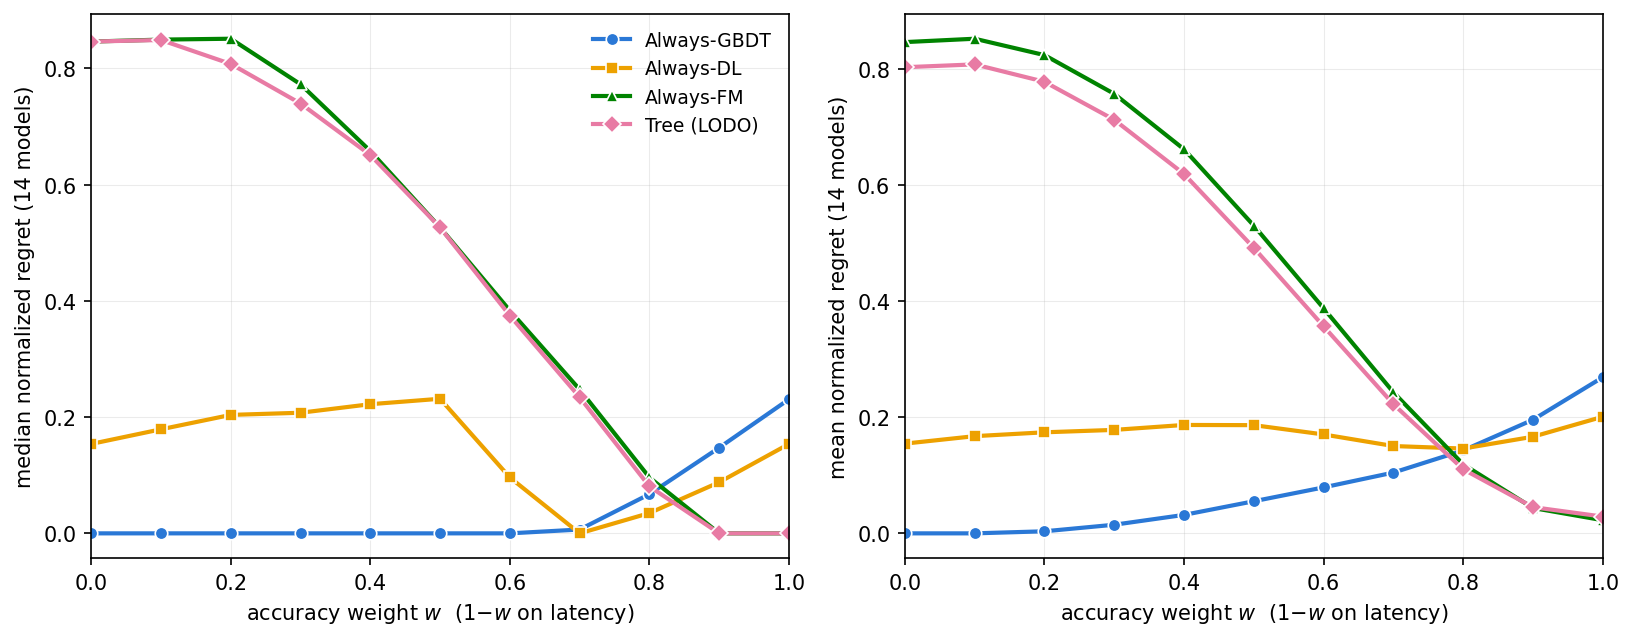
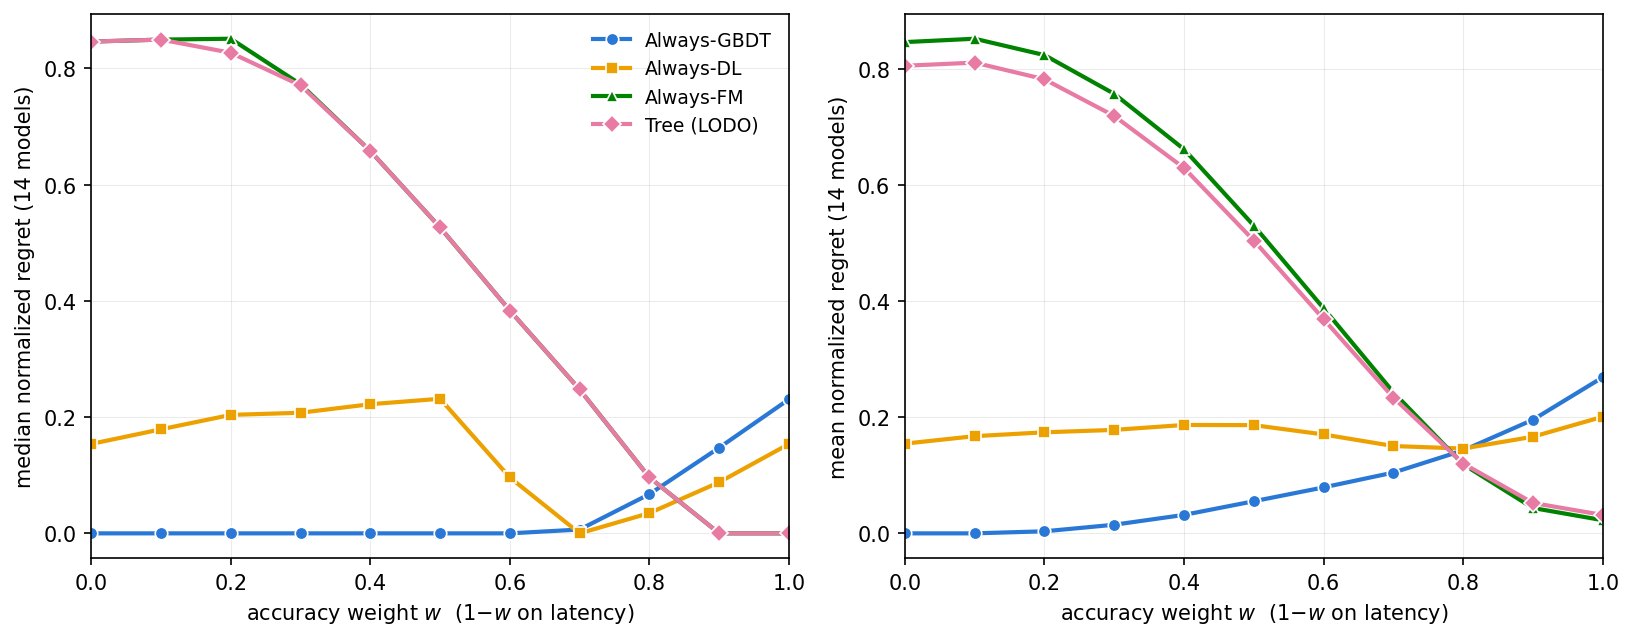
auditoria integral 17/11 (10 agentes, dissertacao + AI-1/AI-2 + codigo + registro; centenas de numeros recomputados, zero fabricacao) — camada de analise/registro: paper_analysis.py com filtro explicito das sementes canonicas {0,1,2} (reproduz paper_retention com delta 0; elimina risco de sobrescrit
Claude-Session: https://claude.ai/code/session_01D1W3CohqpiQBsJnp72zZYY

diff --git a/scripts/paper_analysis.py b/scripts/paper_analysis.py
@@ -28,6 +28,12 @@ from src.evaluation.enrichments import bayesian_signed_rank
 def retention_table():
     rows = []
     e = pd.read_csv(REPO / "results/distillation/extension.csv")
+    # Base canonica = 3 sementes (0,1,2). Os CSVs ganharam 10 sementes no
+    # SEEDS-10 (05/11); sem este filtro, regenerar sobrescreveria a base
+    # pareada de paper_retention.csv (0,1918) pela de 10 sementes (0,1906).
+    # Filtro adicionado na auditoria de 17/11/2026; reproduz o canonico
+    # com |delta| = 0,0 nos 20 conjuntos.
+    e = e[e.seed.isin([0, 1, 2])]
     ge = e.groupby(["dataset", "cell"]).agg(crps=("crps", "mean"))
     for ds in e.dataset.unique():
         t = ge.loc[(ds, "teacher"), "crps"]
@@ -39,6 +45,7 @@ def retention_table():
                      "teacher_edge": gap})
     d = pd.read_csv(REPO / "results/distillation/distill.csv")
     d = d[d.teacher == "tabpfn"]
+    d = d[d.seed.isin([0, 1, 2])]  # base canonica; ver nota acima
     t5 = pd.read_csv(REPO / "results/distillation/teacher_eval.csv")
     t5 = t5[t5.teacher == "tabpfn"].set_index("dataset")
     gd = d.groupby(["dataset", "student", "target"]).agg(crps=("crps", "mean"))

diff --git a/docs/memo-novidade-destilacao.md b/docs/memo-novidade-destilacao.md
@@ -209,3 +209,26 @@ Varredura de 15/10 (URLs e vereditos no registro da sessão):
 > citada no cap. 3 está registrada em `docs/desenho-melhorias-finais.md`
 > (auditoria integral da errata), não neste memo; este memo cobre
 > 15/07, 20/07 (+ adendos 14--15/10), 04/10 e 05/11.
+
+## Adendo (17/11/2026) — registro canônico das re-varreduras de 12/11 e 17/11
+
+Auditoria de 17/11 apontou que a re-varredura de 12/11/2026 (citada no
+cap. 3 e no commit 0ad5339) não tinha registro neste memo — corrigido
+aqui, junto com a varredura nova de hoje.
+
+- **12/11/2026** (pré-reunião final de acompanhamento): verificação
+  direta de arXiv:2610.01435 (jeong2026) — seguia v1 de 01/10,
+  destilação PONTUAL em regressão, sem quantis/CRPS/distribucional;
+  buscas dirigidas por destilação de TFMs tabulares não retornaram
+  trabalho novo no recorte. Veredito: lacunas (i)–(iii) abertas.
+- **17/11/2026** (auditoria integral, agente dedicado ao cap. 3): 3
+  consultas amplas + verificação direta das páginas arXiv. jeong2026
+  SEGUE v1 (01/10), estritamente pontual. Vizinhos novos encontrados e
+  descartados com justificativa: MaskTab (2605.11408 — destilação no
+  pré-treino, classificação industrial) e TabKD (2603.15481 — KD
+  tabular genérico, professor não-FM). Pocket FM (2605.18654),
+  GEAR, shallow-blocks, ActAlign, MemEff, TACO reconferidos: todos
+  classificação/ponto. **As três lacunas (i)–(iii) seguem abertas em
+  17/11/2026**: (i) destilação distribucional (quantis/CRPS/cobertura)
+  de TFMs tabulares em regressão; (ii) fronteira custo-fidelidade de
+  serving avaliada cruzadamente; (iii) TabFM como professor.

diff --git a/docs/programa-de-pesquisa.md b/docs/programa-de-pesquisa.md
@@ -5,7 +5,18 @@
 > cada frente, os critérios de conclusão e os riscos. Versionado no
 > repositório para que nada dependa de estado local. Campos entre [ ] exigem
 > confirmação do aluno/secretaria — não foram assumidos.
-> Última revisão: 05/11/2026 — ver "Estado em 05/11/2026 (revisão corrente)"
+> Última revisão: 17/11/2026 — marcos posteriores a 05/11, registrados em
+> `desenho-melhorias-finais.md` e `memo-novidade-destilacao.md`: auditoria
+> externa de 12/11 (apontamentos "Study", ~22 itens verificados; figuras de
+> deck regeneradas com geradores versionados; dissertação em 164 pp);
+> reunião final de acompanhamento em 12/11 com aval para o R-TUNE
+> estendido; R-TUNE-20 EXECUTADO em 17/11 (16/20 positivas com controle
+> re-tunado, mediana 0,124 vs 0,192, sinal p=0,0059 — veredito agregado
+> intacto, integrado ao cap. 7/AI-2 sem retificação); re-varreduras de
+> novidade de 12/11 e 17/11 registradas (recorte segue inédito);
+> auditoria integral de 17/11 (10 agentes, dissertação + entregas +
+> código: zero fabricação; correções pontuais em commit da mesma data).
+> Revisão anterior (05/11/2026) — ver "Estado em 05/11/2026"
 > abaixo. Entregas de 04–05/11: métricas operacionais (Tabela A.13, Figura
 > 5.9), pedagogia dos quantis (Figura 2.5), onda 2026 de destilação no
 > cap. 3, dissertação em 163 pp.
